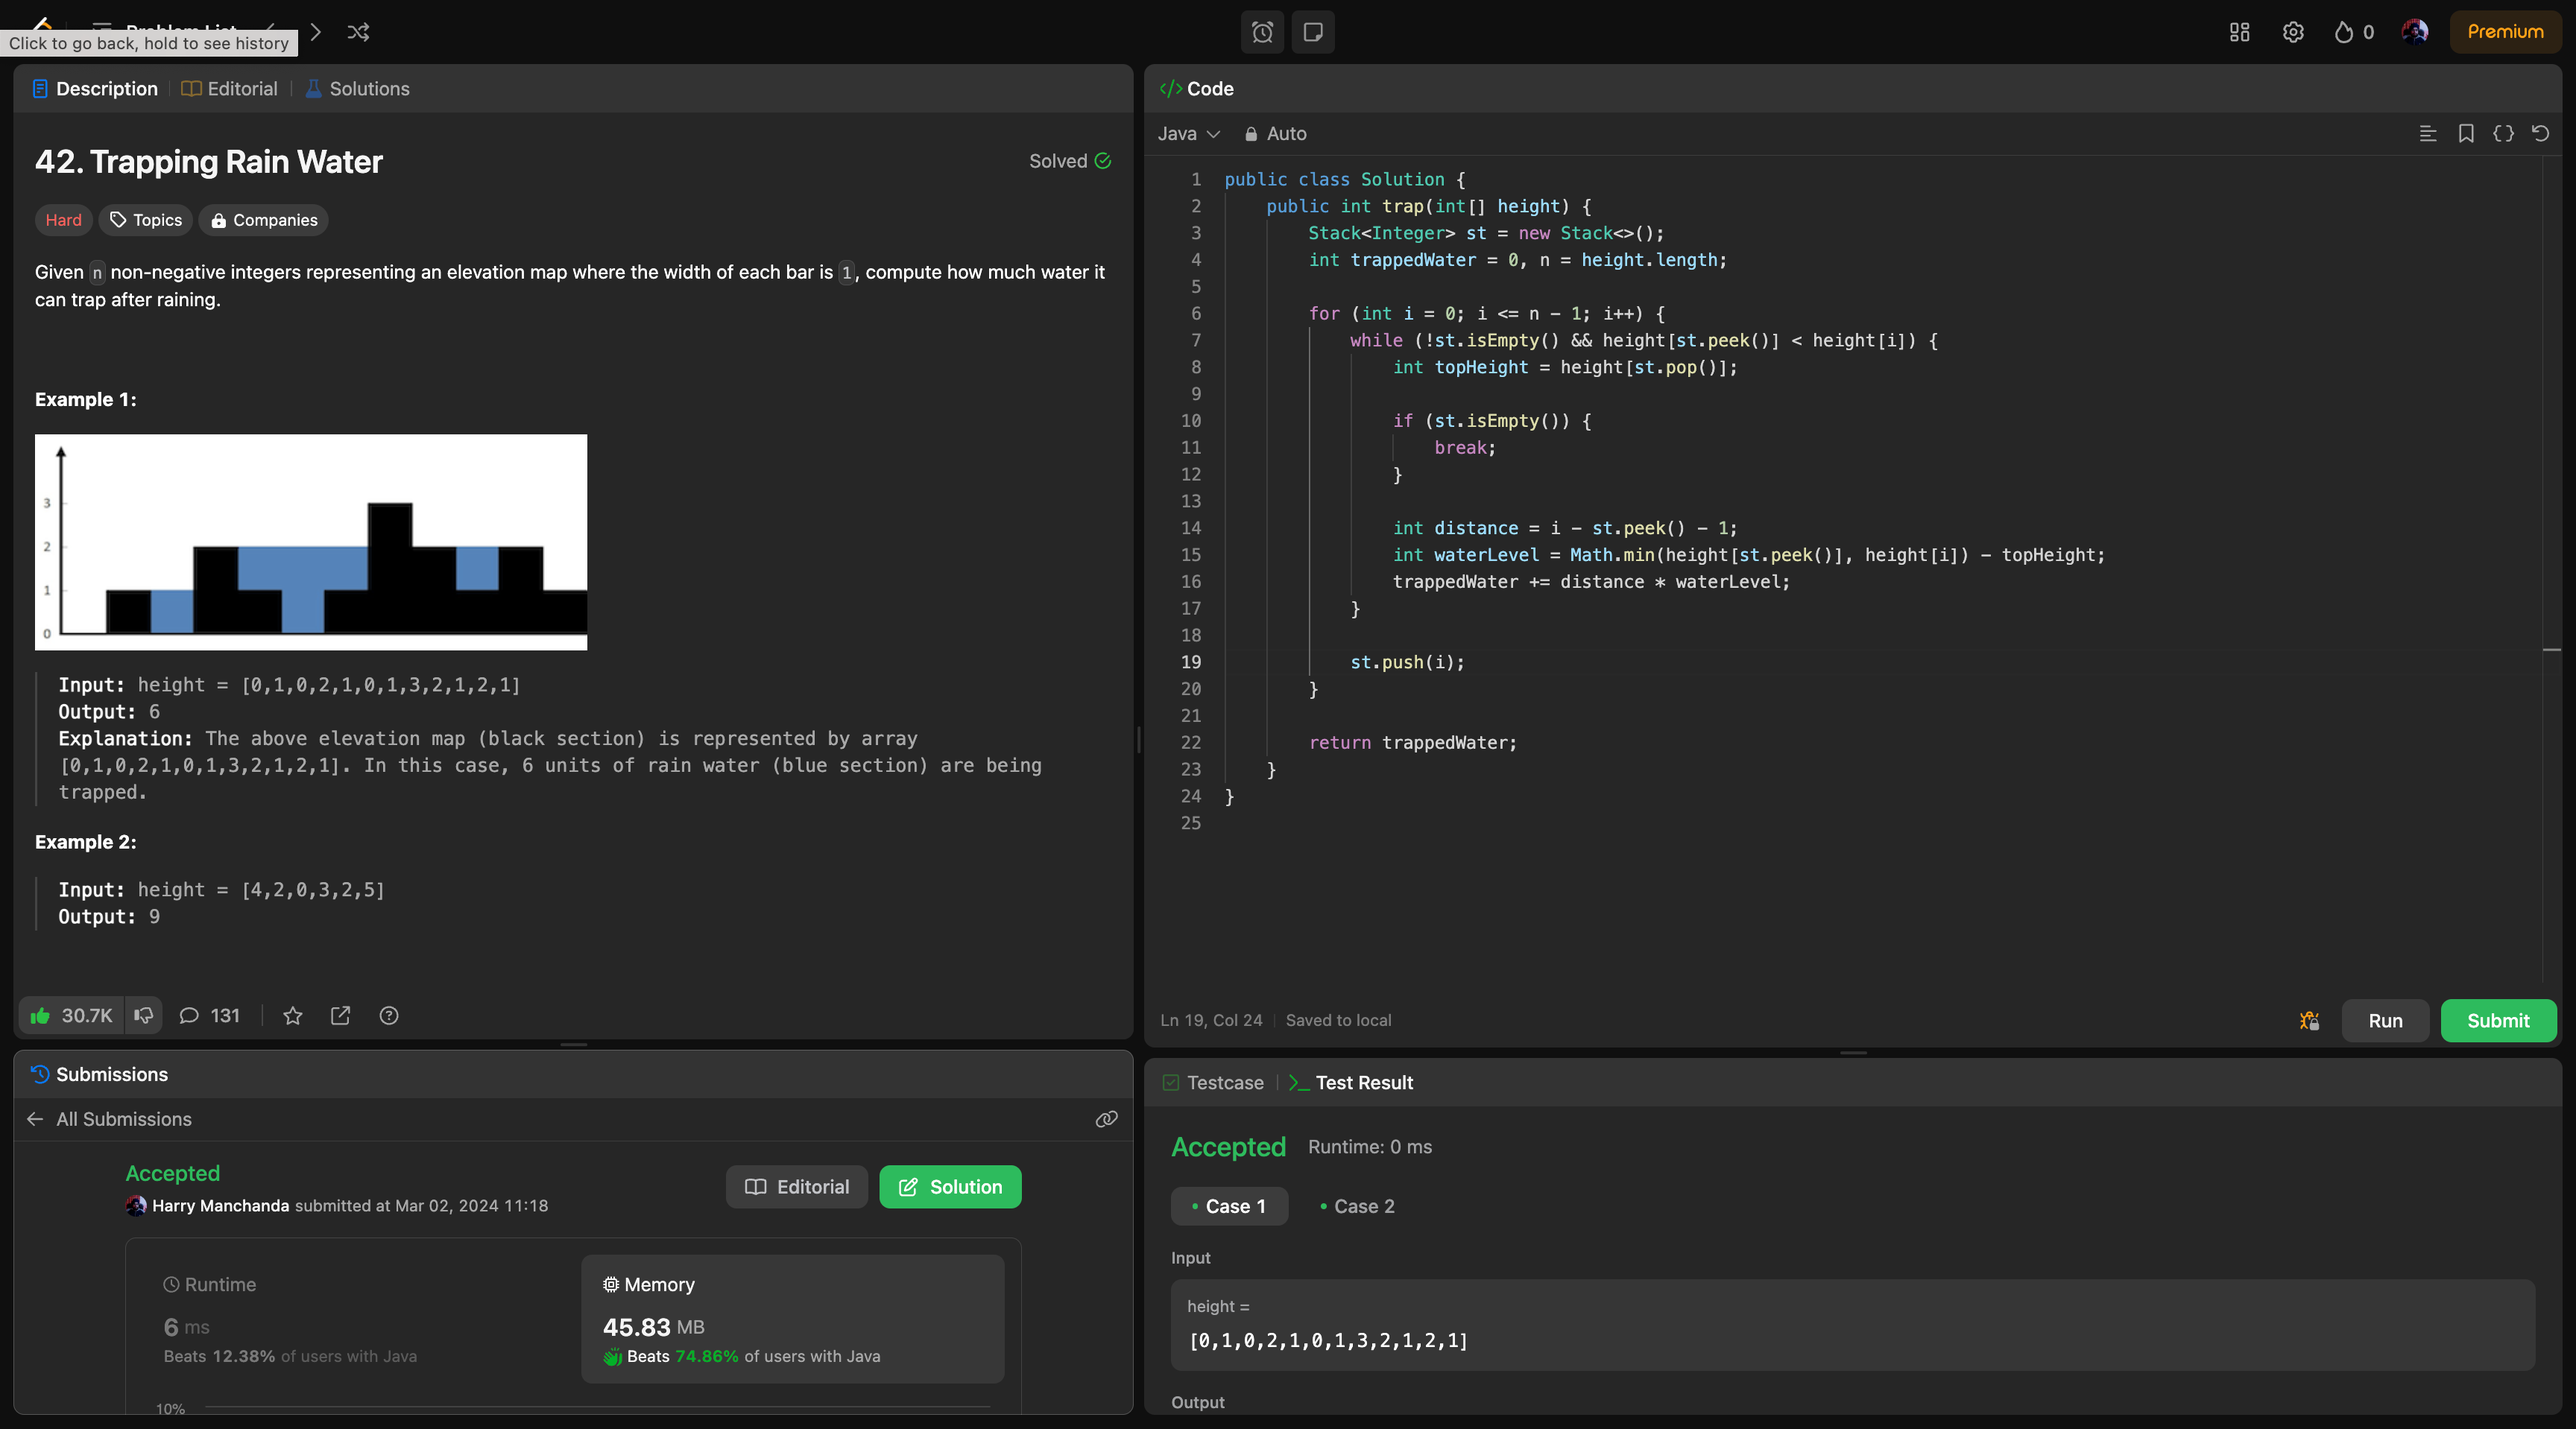
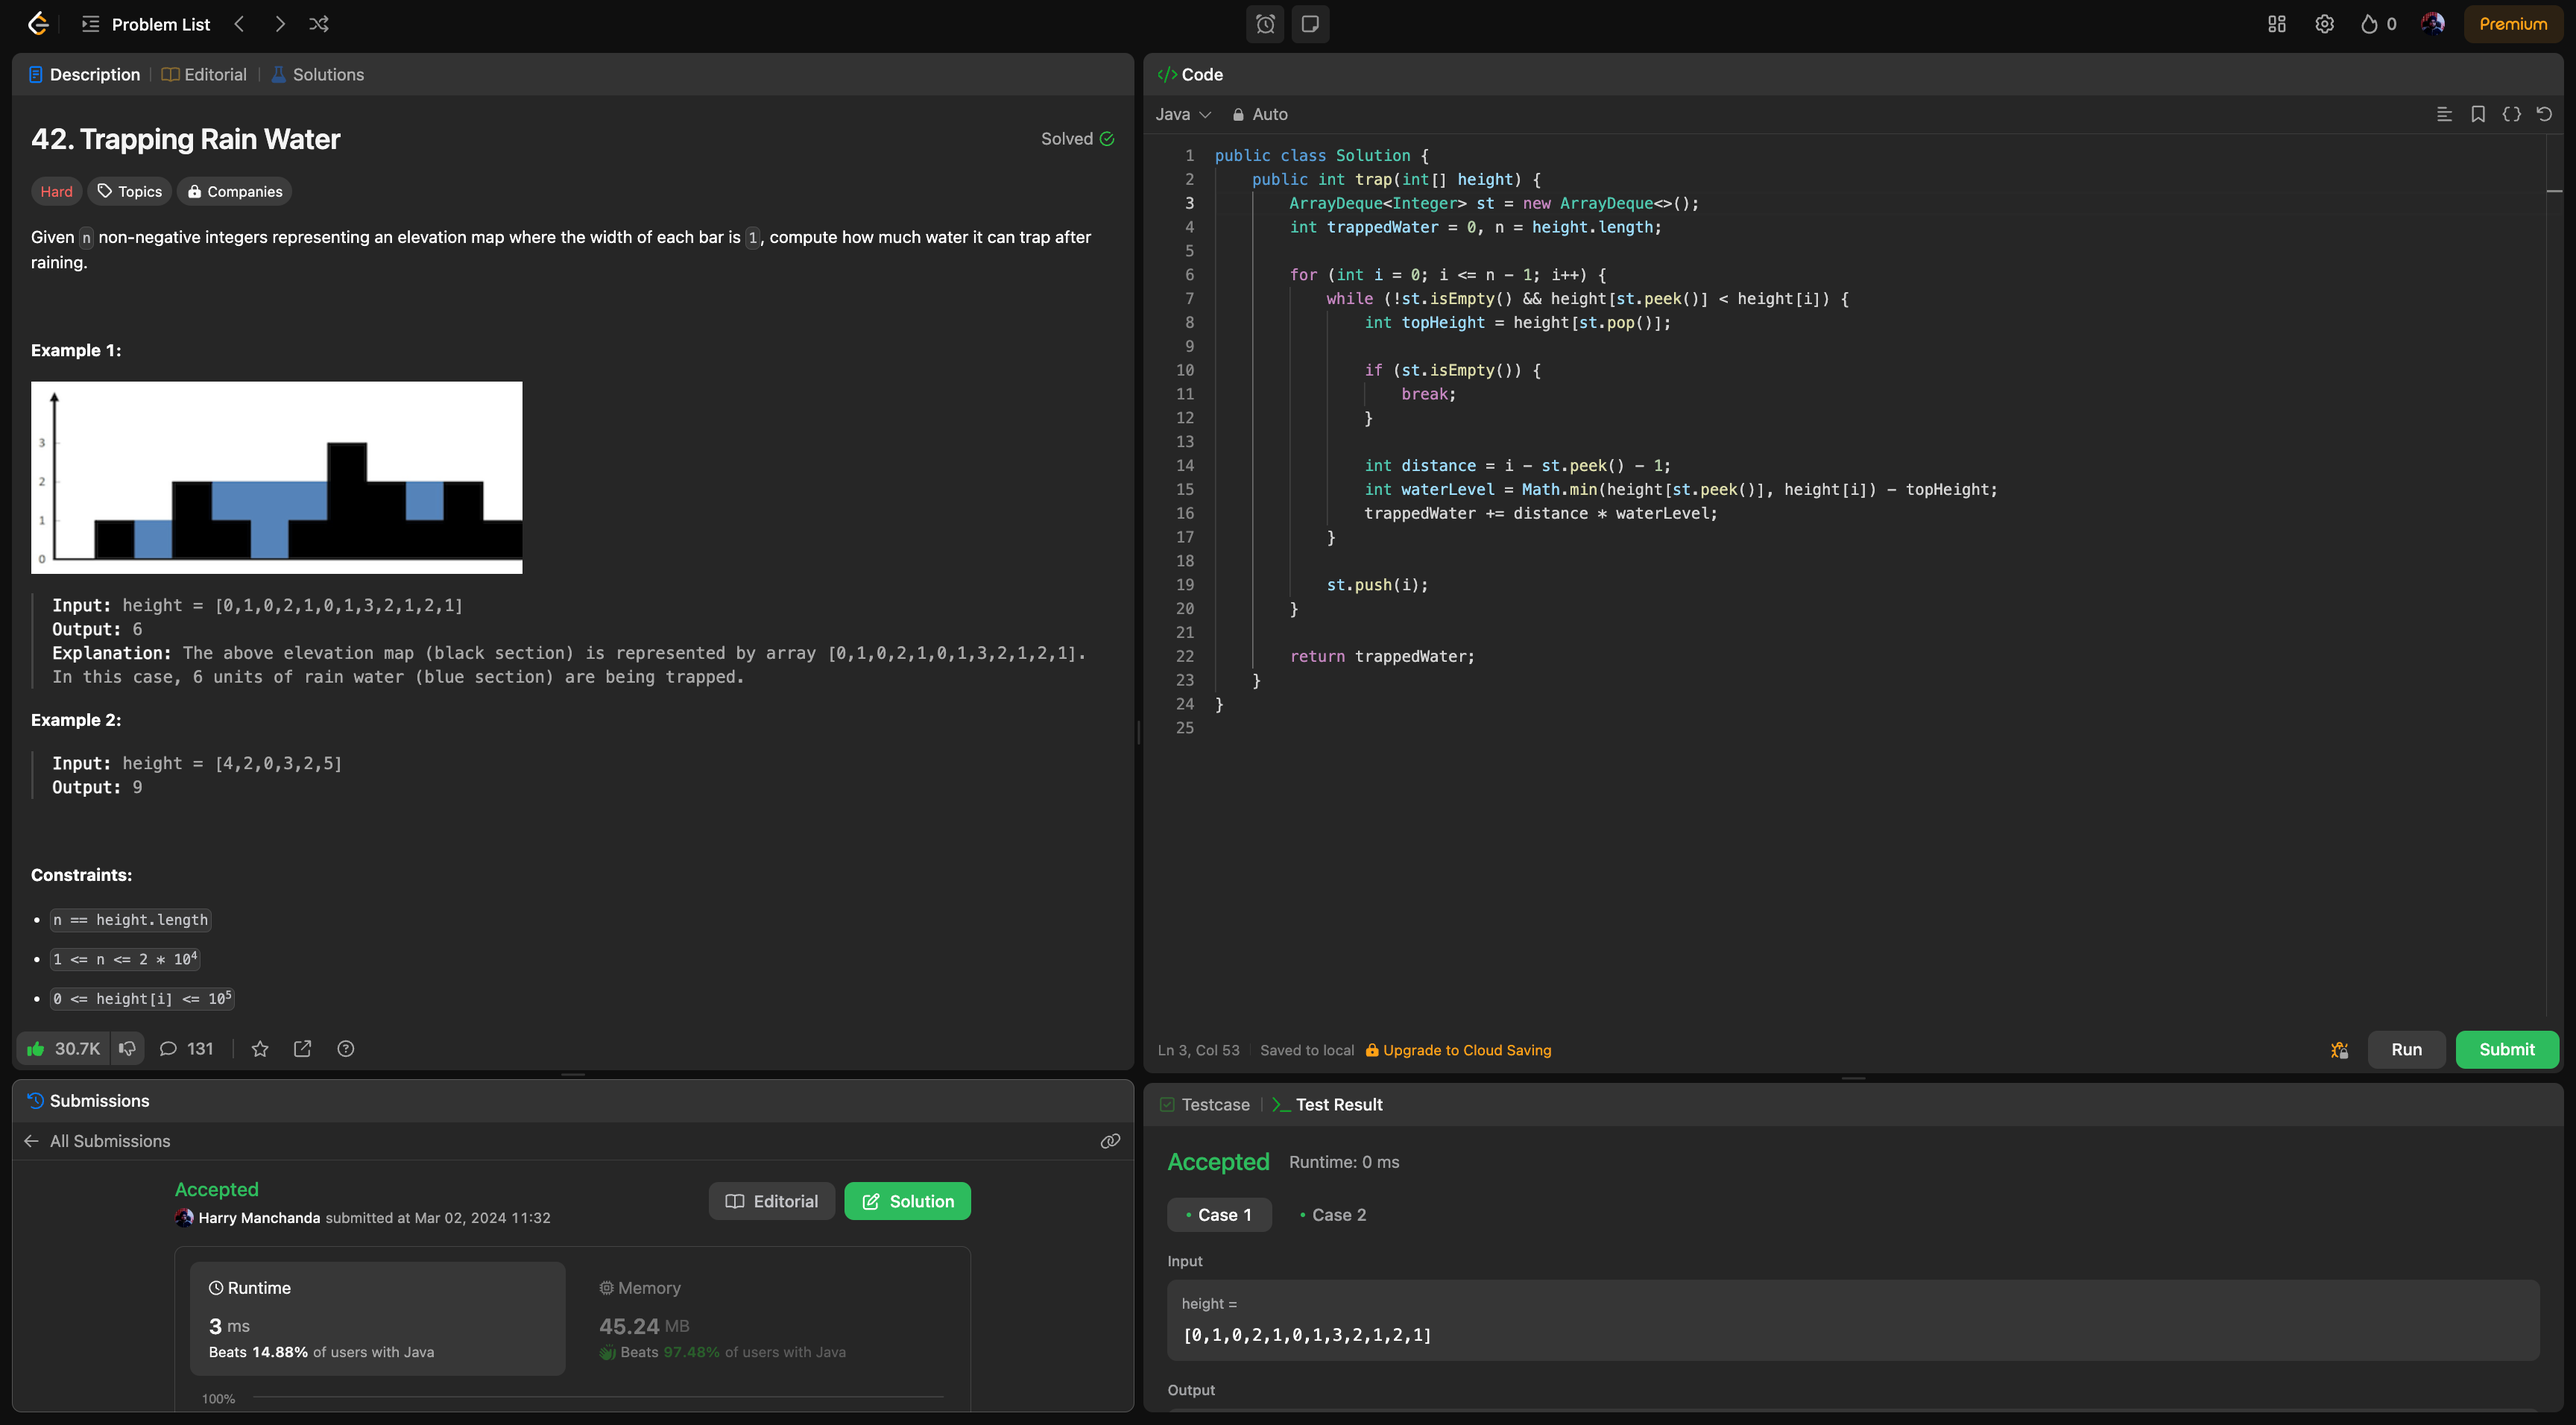
Updates to Trapping Rain Water

diff --git a/049-trapping-rain-water/002-solution/Solution.java b/049-trapping-rain-water/002-solution/Solution.java
@@ -4,14 +4,14 @@ import java.util.*;
  * Problem: Trapping rain water
  * https://leetcode.com/problems/trapping-rain-water/description/
  * 
- * Approach: Using stack
+ * Approach: Using Stack (ArrayDeque)
  * - Time complexity: O(n)
  * - Space complexity: O(n)
  */
 
 public class Solution {
     public int trap(int[] height) {
-        Stack<Integer> st = new Stack<>();
+        ArrayDeque<Integer> st = new ArrayDeque<>();
         int trappedWater = 0, n = height.length;
 
         for (int i = 0; i <= n - 1; i++) {
